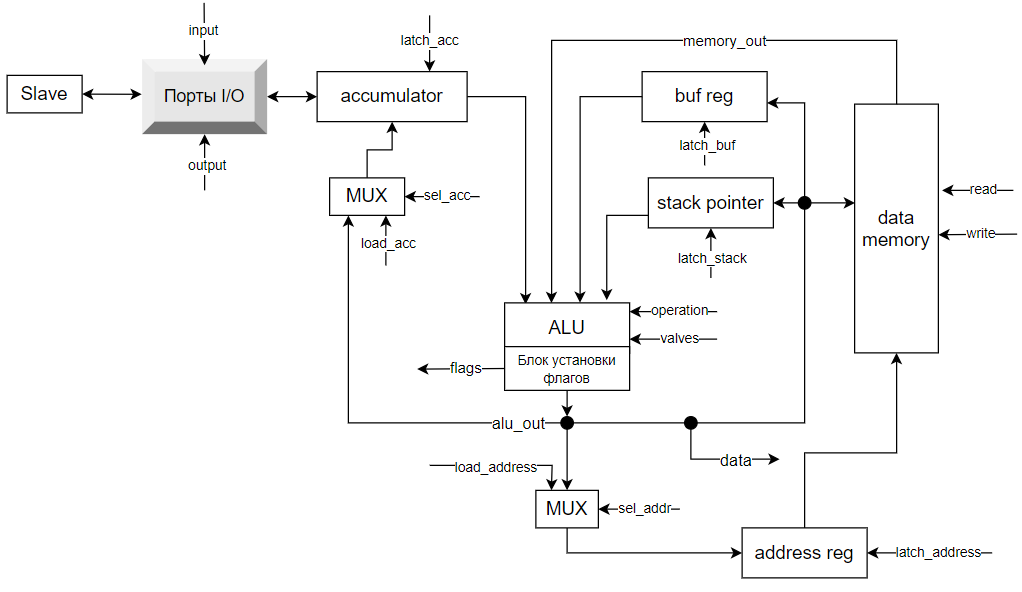
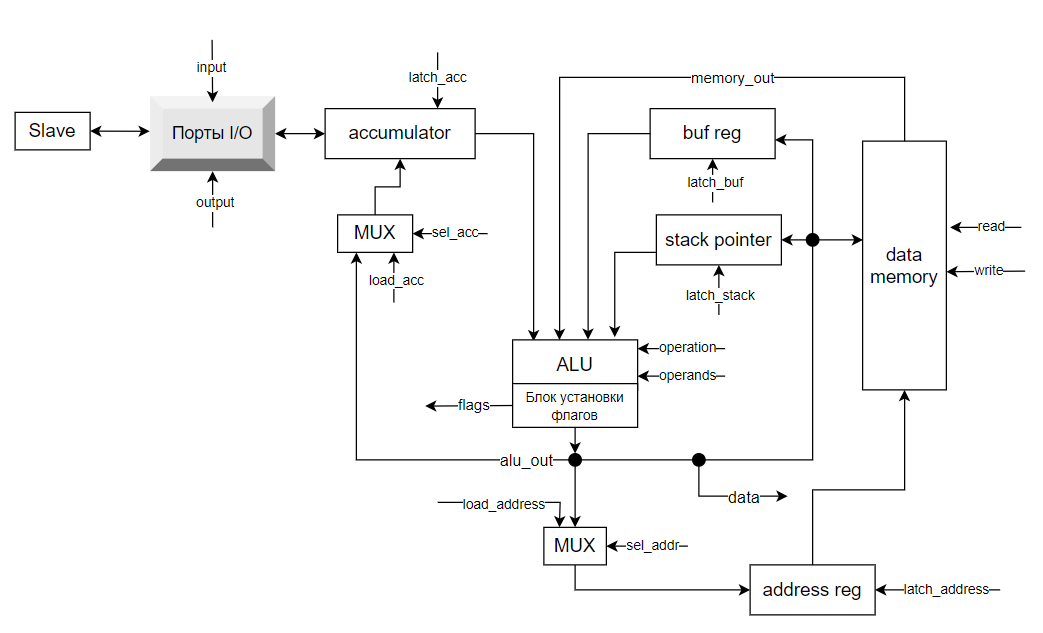
rename signals

Changed region(s): [[0.0, 0.0304, 1.0, 1.0]]

diff --git a/machine/decoder.py b/machine/decoder.py
@@ -1,5 +1,5 @@
 from machine.isa import Opcode
-from machine.machine_signals import Signal, Valves
+from machine.machine_signals import Signal, Operands
 import re
 
 
@@ -16,15 +16,15 @@ class Decoder:
         count = self.arg.count('*') - 1
         for i in range(count):
             dp.memory_manager(Signal.READ)
-            dp.alu_working(valves=[Valves.MEM])
+            dp.alu_working(valves=[Operands.MEM])
             dp.signal_latch_regs(Signal.BUF_LATCH)
             self.cu.tick()
             if self.arg[-1] == '+' and i == 0:
-                dp.alu_working(Opcode.INC, [Valves.BUF])
+                dp.alu_working(Opcode.INC, [Operands.BUF])
                 dp.memory_manager(Signal.WRITE)
                 self.cu.tick()
 
-            dp.alu_working(valves=[Valves.BUF])
+            dp.alu_working(valves=[Operands.BUF])
             self.cu.data_path.signal_latch_address(Signal.DATA_ADDRESS_LOAD)
             self.cu.tick()
 
@@ -36,7 +36,7 @@ class Decoder:
             else:
                 self.process_addressing()
                 dp.memory_manager(Signal.READ)
-                dp.alu_working(valves=[Valves.MEM])
+                dp.alu_working(valves=[Operands.MEM])
                 dp.signal_latch_acc(Signal.DATA_ACC_LOAD)
 
         elif self.opcode == Opcode.STORE:
@@ -56,12 +56,12 @@ class Decoder:
                 dp.signal_latch_acc(Signal.DIRECT_ACC_LOAD, self.arg)
                 self.cu.tick()
 
-                dp.alu_working(self.opcode, [Valves.BUF, Valves.ACC])
+                dp.alu_working(self.opcode, [Operands.BUF, Operands.ACC])
                 dp.signal_latch_acc(Signal.DATA_ACC_LOAD)
             else:
                 self.process_addressing()
                 dp.memory_manager(Signal.READ)
-                dp.alu_working(self.opcode, [Valves.ACC, Valves.MEM])
+                dp.alu_working(self.opcode, [Operands.ACC, Operands.MEM])
                 dp.signal_latch_acc(Signal.DATA_ACC_LOAD)
         else:
             dp.alu_working(self.opcode)
@@ -85,7 +85,7 @@ class Decoder:
         dp = self.cu.data_path
 
         def subprogram():
-            dp.alu_working(Opcode.DEC, [Valves.STACK])
+            dp.alu_working(Opcode.DEC, [Operands.STACK])
             dp.signal_latch_regs(Signal.STACK_LATCH)
             dp.signal_latch_address(Signal.DATA_ADDRESS_LOAD)
             self.cu.tick()
@@ -99,20 +99,20 @@ class Decoder:
             dp.memory_manager(Signal.WRITE)
             self.cu.tick()
 
-            dp.alu_working(valves=[Valves.BUF])
+            dp.alu_working(valves=[Operands.BUF])
             dp.signal_latch_acc(Signal.DATA_ACC_LOAD)
 
         def ret():
-            dp.alu_working(valves=[Valves.STACK])
+            dp.alu_working(valves=[Operands.STACK])
             dp.signal_latch_address(Signal.DATA_ADDRESS_LOAD)
             self.cu.tick()
 
             dp.memory_manager(Signal.READ)
-            dp.alu_working(valves=[Valves.MEM])
+            dp.alu_working(valves=[Operands.MEM])
             self.cu.signal_latch_ip(Signal.DATA_IP)
             self.cu.tick()
 
-            dp.alu_working(Opcode.INC, [Valves.STACK])
+            dp.alu_working(Opcode.INC, [Operands.STACK])
             dp.signal_latch_regs(Signal.STACK_LATCH)
 
         match self.opcode:
@@ -133,7 +133,7 @@ class Decoder:
 
                     dp.signal_latch_address(Signal.DIRECT_ADDRESS_LOAD, self.cu.int_vector)
                     dp.memory_manager(Signal.READ)
-                    dp.alu_working(valves=[Valves.MEM])
+                    dp.alu_working(valves=[Operands.MEM])
                     self.cu.signal_latch_ip(Signal.DATA_IP)
             case Opcode.IRET:
                 Decoder(self.cu, Opcode.POP, 0).decode_stack_commands()
@@ -164,7 +164,7 @@ class Decoder:
     def decode_stack_commands(self):
         dp = self.cu.data_path
         if self.opcode == Opcode.PUSH:
-            dp.alu_working(Opcode.DEC, [Valves.STACK])
+            dp.alu_working(Opcode.DEC, [Operands.STACK])
             dp.signal_latch_regs(Signal.STACK_LATCH)
             dp.signal_latch_address(Signal.DATA_ADDRESS_LOAD)
             self.cu.tick()
@@ -173,16 +173,16 @@ class Decoder:
             dp.memory_manager(Signal.WRITE)
 
         else:
-            dp.alu_working(valves=[Valves.STACK])
+            dp.alu_working(valves=[Operands.STACK])
             dp.signal_latch_address(Signal.DATA_ADDRESS_LOAD)
             self.cu.tick()
 
             dp.memory_manager(Signal.READ)
-            dp.alu_working(valves=[Valves.MEM])
+            dp.alu_working(valves=[Operands.MEM])
             dp.signal_latch_acc(Signal.DATA_ACC_LOAD)
             self.cu.tick()
 
-            dp.alu_working(Opcode.INC, [Valves.STACK])
+            dp.alu_working(Opcode.INC, [Operands.STACK])
             dp.signal_latch_regs(Signal.STACK_LATCH)
         self.cu.tick()
 

diff --git a/machine/cpu.py b/machine/cpu.py
@@ -1,5 +1,5 @@
 from machine.decoder import Decoder
-from machine.machine_signals import Signal, Valves
+from machine.machine_signals import Signal, Operands
 from machine.isa import Opcode
 from machine.logger import Logger
 
@@ -64,18 +64,18 @@ class DataPath:
 
     def get_bus_value(self, bus):
         match bus:
-            case Valves.ACC:
+            case Operands.ACC:
                 return self.acc
-            case Valves.BUF:
+            case Operands.BUF:
                 return self.buf_reg
-            case Valves.STACK:
+            case Operands.STACK:
                 return self.stack_pointer
-            case Valves.MEM:
+            case Operands.MEM:
                 return self.memory_out
 
-    def alu_working(self, operation=Opcode.ADD, valves=[Valves.ACC]):
+    def alu_working(self, operation=Opcode.ADD, valves=[Operands.ACC]):
         self.alu_out = self.get_bus_value(valves[0])
-        if Valves.ACC in valves:
+        if Operands.ACC in valves:
             self.flags = {"z": self.acc == 0, "n": self.alu_out < 0}
         if operation in [Opcode.INC, Opcode.DEC, Opcode.MOVH]:
             self.alu_out = self.execute_alu_operation(operation)

diff --git a/machine/machine_signals.py b/machine/machine_signals.py
@@ -15,7 +15,7 @@ class Signal:
     DATA_IP = "data ip"
 
 
-class Valves:
+class Operands:
     ACC = "acc"
     MEM = "mem"
     BUF = "buf"
